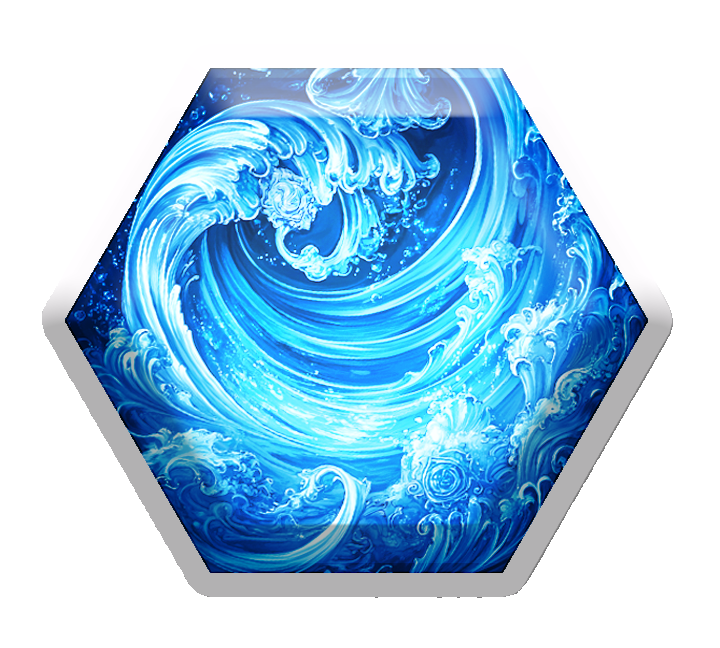
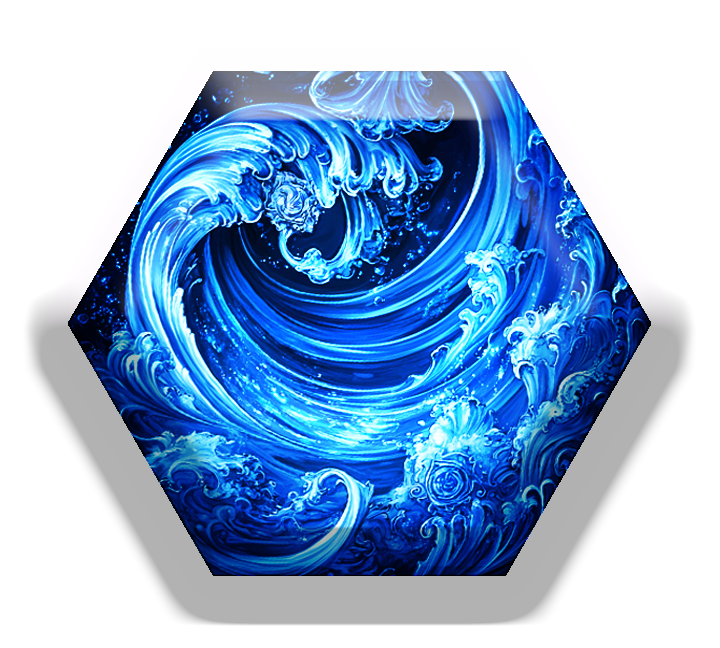
Print prepare. Part 3

diff --git a/src/app/components/card/card.component.html b/src/app/components/card/card.component.html
@@ -102,13 +102,20 @@
 		</div>
 	</ng-container>
 	<ng-container *ngIf="cardSide === 'back'">
+
         <div
-        class="card-overlay-wrap"
-        [ngClass]="{ 'card-overlay-wrap--no-reflection': !printModeEnabled }"
+            class="card-overlay-wrap"
+            [ngClass]="{ 'card-overlay-wrap--no-reflection': !printModeEnabled }"
             [ngStyle]="{ '--card-bg': 'url(' + cardBackUrl + ')' }"
-    >
-        <div class="card-overlay card-overlay-back"></div>
-    </div>
+        >
+            <div class="card-overlay-mirror-topleft"></div>
+            <div class="card-overlay-mirror-topright"></div>
+            <div class="card-overlay-mirror-left"></div>
+            <div class="card-overlay card-overlay-back"></div>
+            <div class="card-overlay-mirror-right"></div>
+            <div class="card-overlay-mirror-bottomleft"></div>
+            <div class="card-overlay-mirror-bottomright"></div>
+        </div>
 
     </ng-container>
 </div>

diff --git a/src/app/style.css b/src/app/style.css
@@ -137,16 +137,16 @@
 
 
 .card--print .card-overlay-wrap{
-    --bleed-y: 10px;
-    --bleed-x: 10px;
+    --bleed-y: 5px;
+    --bleed-x: 5px;
 }
 
 .card--print {
-    margin: 5px 15px;
+    margin: 0px 7px;
 }
 
 .card--print{
-    margin-bottom: calc(5px + 20px); /* компенсация vertical bleed для print mode */
+    margin-bottom: 13px; /* компенсация vertical bleed для print mode */
 }
 
 .chaos-card{
@@ -170,8 +170,8 @@
 
 
 .card-overlay-wrap{
-    --bleed-y: 10px;          /* сколько сверху/снизу */
-    --bleed-x: 10px;          /* сколько слева/справа (horizontal bleed) */
+    --bleed-y: 5px;          /* сколько сверху/снизу */
+    --bleed-x: 5px;          /* сколько слева/справа (horizontal bleed) */
     --card-w: 240px;
     --card-h: 332.1px;        /* высота "чистой" области */
     position: absolute;
